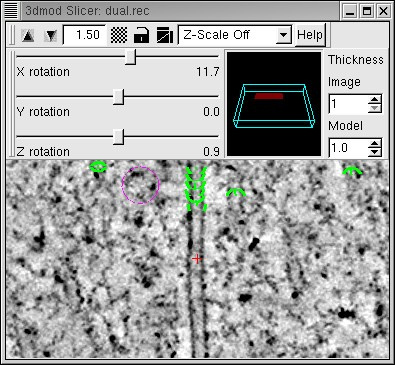
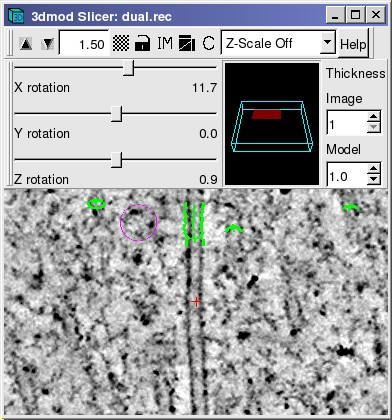
*** empty log message ***

diff --git a/html/3dmodguide.html b/html/3dmodguide.html
@@ -4,7 +4,7 @@
   <title>3dmod Introduction</title>
 </head>
 <body>
-<h2 align="center">Introduction to 3dmod, Version 3.7<br>
+<h2 align="center">Introduction to 3dmod, Version 3.9<br>
 </h2>
 <h3 align="center">Boulder Laboratory for 3-D Electron Microscopy of
 Cells</h3>
@@ -12,20 +12,21 @@ Cells</h3>
 <h3>Table of Contents</h3>
 <ul>
   <br>
-  <a href="#Model Organization">Model Organization</a> <br>
-  <a href="#Starting 3dmod"> Starting 3dmod</a> <br>
-  <a href="#Information Window">The Information Window</a> <br>
-  <a href="#Zap Window">The Zap Window</a> <br>
-  <a href="#Object Edit">The Object Edit Dialog</a> <br>
-  <a href="#Modeling in Zap">Modeling in the Zap Window</a> <br>
-  <a href="#Zap Toolbar">The Zap Toolbar</a> <br>
-  <a href="#Common Hot Keys">Most Frequently Used Hot Keys</a> <br>
-  <a href="#XYZ Window">The XYZ Window</a> <br>
-  <a href="#Slicer Window">The Slicer Window</a> <br>
-  <a href="#Setting Z-scale">Setting Z-scale and Pixel Size</a> <br>
-  <a href="#Viewing Model">Viewing the Model in 3D</a> <br>
-  <a href="#Skinning Model">Putting a skin on model data</a> <br>
-  <a href="#Advanced Topics">Advanced topics</a>
+  <a href="#Model%20Organization">Model Organization</a> <br>
+  <a href="#Starting%203dmod"> Starting 3dmod</a> <br>
+  <a href="#Information%20Window">The Information Window</a> <br>
+  <a href="#Zap%20Window">The Zap Window</a> <br>
+  <a href="#Object%20Edit">The Object Edit Dialog</a> <br>
+  <a href="#Modeling%20in%20Zap">Modeling in the Zap Window</a> <br>
+  <a href="#Zap%20Toolbar">The Zap Toolbar</a> <br>
+  <a href="#Common%20Hot%20Keys">Most Frequently Used Hot Keys</a> <br>
+  <a href="#XYZ%20Window">The XYZ Window</a> <br>
+  <a href="#Slicer%20Window">The Slicer Window</a> <br>
+  <a href="#Setting%20Z-scale">Setting Z-scale and Pixel Size</a> <br>
+  <a href="#Viewing%20Model">Viewing the Model in 3D</a> <br>
+  <a href="#Skinning%20Model">Putting a Skin on Model Data</a> <br>
+  <a href="#Making_Movies">Making Movies</a> <br>
+  <a href="#Advanced%20Topics">Advanced Topics</a>
 </ul>
 <hr>
 <a name="Model Organization"> <dd>
@@ -375,9 +376,12 @@ if this does not make it clear enough you can also
 make a separate symbol be displayed only on the central section. </li>
 </ul>
 <p>
-<a name="Object Edit">
+</p>
+<h3><a name="Object Edit">
 <h4>The Object Edit Dialog</h4>
-</a>The type of contours in an object, and the symbols displayed at
+</a></h3>
+<p><a name="Object Edit"></a>The type of contours in an object, and the
+symbols displayed at
 individual points, can be selected with the Object Edit dialog box.
 Here are two examples.
 <table align="center" border="0">
@@ -403,9 +407,11 @@ vesicles;
 here no symbol is
 selected but the sphere radius for points has been set to 14.
 </p>
-<p><a name="Modeling in Zap">
+<h3><a name="Modeling in Zap">
 <h4>Modeling in the Zap Window</h4>
-</a>Model points are added or changed using a 3-button mouse with the
+</a></h3>
+<p><a name="Modeling in Zap"></a>Model points are added or changed
+using a 3-button mouse with the
 program in Model mode.
 The table below gives an overview of the mouse controls in Movie and
 Model mode.
@@ -470,9 +476,10 @@ moving or deleting them. Use this button alone to move one or more
 points; hold down the Ctrl key to delete points under the cursor while
 clicking or holding down the right button.
 </p>
-<p><a name="Zap Toolbar">
+<h3><a name="Zap Toolbar">
 <h4>The Zap Toolbar</h4>
-</a></p>
+</a></h3>
+<p><a name="Zap Toolbar"></a></p>
 <center> <img src="3dmodimages/zaptoolbar.png" alt="Zap window toolbar">
 </center>
 <p>The toolbar for the Zap window has a number of useful controls.
@@ -482,7 +489,12 @@ clicking or holding down the right button.
 there is a text box which both displays the current zoom value and
 allows you
 to enter any arbitrary zoom.
-(Fractional zooms may be slower on some machines.) </li>
+(Fractional zooms may be slower on some machines.)</li>
+  <li>The numbers next to the zoom text box show the size of the
+window, or of the area enclosed by the rubberband, in pixels in the
+screen.&nbsp; This could be useful for taking a snapshot of an area of
+a particular size.<br>
+  </li>
   <li>The Checkerboard button will toggle between fast drawing and
 slower, high-resolution drawing with pixel smoothing when the zoom is
 greater than 1. </li>
@@ -551,7 +563,7 @@ particular windows, which are described in the help for those windows.
 The most commonly used hot keys
 are listed here:
 </p>
-<pre>PageUp     Show the next section (increase Z)<br>PageDown   Show the previous section (decrease Z)<br>Home       Show the last section<br>End        Show the first section<br>Delete     Delete current model point<br>-          Zoom down<br>=          Zoom up<br>s          Save the model<br>n          Start a new contour<br>Ctrl-S     Snapshot an image window to a Tiff file<br>t          Toggle model drawing off or on<br>,          Slow down movie or model rotation<br>.          Speed up movie or model rotation<br></pre>
+<pre>PageUp     Show the next section (increase Z)<br>PageDown   Show the previous section (decrease Z)<br>Home       Show the last section<br>End        Show the first section<br>Delete     Delete current model point<br>-          Zoom down<br>=          Zoom up<br>s          Save the model<br>n          Start a new contour<br>Ctrl-S     Snapshot an image window to a Tiff file<br>Shift-S, Ctrl-Shift-S   Shapshot to non-Tiff file (usually JPEG and PNG)<br>t          Toggle model drawing off or on<br>,          Slow down movie or model rotation<br>.          Speed up movie or model rotation<br></pre>
 <p>
 <a name="XYZ Window"> <dd>
   <h3>The XYZ Window</h3>
@@ -638,8 +650,13 @@ maintain a selected view in a Slicer Window while changing to other
 views in other windows (including other Slicers). Second, it allows
 you to model in the slicer without having the slice jump around.
 Third, it prevents the slow drawing in the slicer from slowing down
-the program when you want to work in or movie through other windows. </li>
-  <li>The help button describes hot keys and other features. </li>
+the program when you want to work in or movie through other windows.</li>
+  <li>The IM/FT button toggles between showing an image and a Fourier
+transform of the image.</li>
+  <li>The C button shows the slice in which the current contour will
+appear flat.<br>
+  </li>
+  <li>The Help button describes hot keys and other features. </li>
   <li>The box to the right of the sliders portrays the portion of the
 slice being viewed as a red plane inside of a representation of the
 whole image volume. </li>
@@ -662,15 +679,21 @@ movieing.<br>
 <p>It is possible to model in the Slicer, again with the same mouse
 button functions as in the Zap window. This provides a convenient way
 to track trajectories on 3D. If the lock button is not on,
-every mouse click will bring the selected point to the center.
-Sometimes
-this behavior is desirable, sometimes not. If not, just lock the
-slicer
-for modeling.
+every mouse click will bring the selected point to the center. Locking
+the slicer will prevent this behavior, which is often not desirable,
+and provides several other features when modeling.&nbsp; First, points
+can be drawn continuously by moving the mouse while holding the second
+mouse button down.&nbsp; Second, points drawn in one plane will lie
+exactly in a plane.&nbsp; Third, the PageUp and PageDown keys will move
+the center point by one pixel perpendicular to the plane being viewed
+instead of in the Z direction, which allows you to draw evenly spaced
+contours at oblique angles.&nbsp; See the Slicer <a
+ href="3dmodHelp/slicer.html">help page</a>
+for the more details. <br>
 </p>
 <p>The power of the Slicer comes at a cost - it is the first window
 that we have seen where the computation time can easily make the
-display unacceptably slow. Display time depends on three factors:
+display unacceptably slow. Display time depends on four factors:
 image thickness, high versus low resolution, and image size. If you
 need to average through many slices with a high resolution display, be
 sure to make the image as small as possible. If you must work with a
@@ -688,7 +711,7 @@ because these values are used for calculating length, surface area
 or volume from object, contour or mesh data.
 To adjust these fields in the model header
 select the Model Header menu item from the Edit menu in the
-3dmod <a href="#Information Window">Information Window</a>.
+3dmod <a href="#Information%20Window">Information Window</a>.
 </p>
 <p>The Z-Scale is the ratio of the thickness between successive images
 to the pixel size. Its two most common uses are to adjust for
@@ -756,7 +779,7 @@ two changes that can be made immediately, without having to compute
 surface meshes for the contours. The microtubule lines (green) have
 been made
 thicker and the scattered points are displayed as lighted surfaces.
-On the right is the display after making a meshes for the objects (as
+On the right is the display after making meshes for the objects (as
 explained below) and setting all objects to display as lighted
 surfaces. These display settings are all changed in the 3dmodv
 Objects dialog box, opened with the Edit-Objects menu item or the O hot
@@ -789,7 +812,7 @@ its name in the list.
 </p>
 <p>The example on the left shows how the appearance of the green lines
 was changed for the middle model view panel above. The "Lines" panel
-was selected, the line width was increased from 1 to 3, and
+was selected, the 3D line width was increased from 1 to 3, and
 "Anti-alias rendering" was turned on to smooth out the jagged edges of
 the lines.
 </p>
@@ -846,7 +869,7 @@ projection.&nbsp; The following images show an example of this display.<br>
 </table>
 </p>
 <p><a name="Skinning Model"> <dd>
-  <h3>Putting a skin on model data</h3>
+  <h3>Putting a Skin on Model Data</h3>
 </dd>
 </a>Skinning is the name used for calculating a three-dimensional
 surface from contour data. This surface, once calculated, is
@@ -855,9 +878,12 @@ a mesh of triangles that can be stored within each object.
 If any contour points within that object are edited then the mesh
 for that object must be recalculated in order for it to match
 the contour data.
-The <a href="man/imodmesh.html">imodmesh</a> program must be used
-to calculate the mesh from the contour data within a model
-since the skinning calculation can take many seconds for large objects.
+There are two ways to calculate the mesh from the contour data within a
+model: with the <a href="man/imodmesh.html">imodmesh</a> program, and
+with the Meshing panel of Objects dialog box.&nbsp; Using imodmesh
+allows many objects to be meshed at once and provides a wide range of
+options for controlling the meshing; whereas the Meshing panel provides
+a more intuitive interface with the most important options.<br>
 </p>
 <p>To skin the example model, this command was used:
 <br>
@@ -876,27 +902,17 @@ did this because of the
 "-t" option, which is followed by a list of open contour object numbers
 that should be given tubular meshes
 (here, just object 1). The "-d" option is then used to specify the
-diameter of the tubes, in pixels (10).
+diameter of the tubes, in pixels (10).<br>
 </p>
-<p>It is easy to lose your meshed model if you are modeling in 3dmod,
-save the model, run imodmesh, look at the meshed model with 3dmodv,
-then continue modeling in 3dmod and save the unmeshed model again.
-There are two ways to
-avoid this problem. You can exit from 3dmod before you run imodmesh, so
-that you will be working with the meshed model when you
-start 3dmod again. Or, after running imodmesh, be sure to read the
-meshed model back into 3dmod with the Open Model entry in the File
-menu.
-</p>
-<p>Sometimes the mesh data structure can get so large that interactive
+Sometimes the mesh data structure can get so large that interactive
 viewing is very slow. There are two ways to make a mesh with a lower
 resolution, the "-R" option to skip points within contours and
-the and "-i" option to skip Z levels. With "-R", imodmesh will skip
+the "-i" option to skip Z levels. With "-R", imodmesh will skip
 points that are within a certain distance of the line segments between
 the remaining points, thus preserving the shape of
 curves. For example,
 <br>
-<code>imodmesh -C -o 4 -R 0.75 -i 2 example.mod</code>
+<p><code>imodmesh -C -o 4 -R 0.75 -i 2 example.mod</code>
 <br>
 Here, a new mesh is created only for object 4 (-o 4), and
 points will
@@ -918,10 +934,122 @@ low-resolution mode then switched to high-resolution mode for studying
 details.
 Other commonly needed options are -s and -P to connect contours across
 gaps; see the <a href="man/imodmesh.html">imodmesh</a> man page for
-details.
+details.<br>
+</p>
+<p>All the options just mentioned are presented in the interface in the
+Meshing panel:<br>
+</p>
+<table style="margin-left: auto; margin-right: auto; text-align: left;"
+ border="1" cellpadding="2" cellspacing="2">
+  <tbody>
+    <tr>
+      <td style="vertical-align: top;"><img
+ alt="Meshing panel for vesicle object"
+ src="3dmodimages/objedvesmeshing.png"
+ style="width: 303px; height: 523px;"><br>
+      </td>
+      <td style="text-align: center; vertical-align: top;"><img
+ alt="Meshing panel for tube object"
+ src="3dmodimages/objedmtmeshing.png"
+ style="width: 303px; height: 523px;"><br>
+      </td>
+    </tr>
+  </tbody>
+</table>
+<p>Whenever an object is meshed, either with imodmesh or through this
+interface, the options used to mesh the object are stored in the model,
+and their values will be displayed when this panel is opened.&nbsp;
+This makes it easy to remesh objects without having to remember exactly
+what options were used previously.&nbsp; On the left, the "Tol" and "Z
+inc" settings reflects the values entered with the -R and -i options to
+imodmesh, and the "Cap" checkbox indicates that the -C option was used
+for the vesicle object.&nbsp; On the right, the "Tube" selection and
+the
+diameter are shown for the microtubule object.&nbsp; When the "Make
+Mesh" button is pressed, the meshing process is started in a separate
+thread so that you can continue working in 3dmod while the mesh is
+being computed.<br>
+</p>
+<p>If you do mesh with imodmesh while you are modeling in 3dmod,
+be sure to save the model, run imodmesh, then immediately load the
+model back into 3dmod with the Reload Model entry in the File
+menu.<br>
+</p>
+<h3><a name="Making_Movies"></a>Making Movies</h3>
+<p>Because IMOD does not produce files that can be used in movie
+players, if you want to make a movie of your images or models, you need
+to make a series
+of snapshots of a window and import those images into movie-making
+software.&nbsp; There are two dialogs that help manage this task:<br>
+</p>
+<table style="margin-left: auto; margin-right: auto; text-align: left;"
+ border="1" cellpadding="2" cellspacing="2">
+  <tbody>
+    <tr>
+      <td style="vertical-align: top;"><img
+ alt="Movie dialog for images" src="3dmodimages/imagemovies.png"
+ style="width: 225px; height: 553px;"><br>
+      </td>
+      <td style="vertical-align: top;"><img
+ alt="Movie dialog for models" src="3dmodimages/modelmovies.png"
+ style="width: 306px; height: 562px;"><br>
+      </td>
+    </tr>
+  </tbody>
+</table>
+<p>On the left is the dialog box used to control movieing and automatic
+snapshots in image display windows (primarily Zap and Slicer).&nbsp;
+The sliders at the top allow you select the range and increment between
+slices to be snapshot.&nbsp; Here, every slice from 6 to 56 will be
+snapshot.&nbsp; The<span style="font-weight: bold;"> Looping</span>
+radio buttons control how many pictures will be taken when you start a
+movie.&nbsp; With <span style="font-weight: bold;">Round trip</span>
+selected, pictures will be taken going in both directions, which is
+useful if your movie playing software will not loop back and
+forth.&nbsp; If your movie software will loop back and forth, you can
+select <span style="font-weight: bold;">One way</span> and get
+pictures going in just one direction.&nbsp; The <span
+ style="font-weight: bold;">Start at </span>radio buttons allow you to
+choose whether the set of pictures will start and end at the limits in
+Z (<span style="font-weight: bold;">Start/end</span>) or at the
+currently display section (<span style="font-weight: bold;">Current pt</span>).&nbsp;
+To get a series of pictures, select one of the file formats in the <span
+ style="font-weight: bold;">Snapshot</span> box and start a movie in a
+Zap or Slicer window with the middle or right mouse button.&nbsp; The
+window will stop movieing when the set of pictures is finished.<br>
+</p>
+<p>On the right is the corresponding dialog for movies from the model
+display window.&nbsp; In the most general case, you can adjust the
+model display to the desired starting position, orientation, and size,
+and press <span style="font-weight: bold;">Set Start</span>; then
+adjust the display to the desired final state and press <span
+ style="font-weight: bold;">Set End</span>.&nbsp; Often one simply
+wants the model to spin all the way around, which is provided by the
+buttons <span style="font-weight: bold;">Full 360 X</span> and <span
+ style="font-weight: bold;">Full 360 Y</span>.&nbsp; When you press <span
+ style="font-weight: bold;">Make,</span> you will see the model go
+through its sequence of positions.&nbsp; If it is doing the right
+thing, select a file format and check <span style="font-weight: bold;">Write
+files</span>, then press <span style="font-weight: bold;">Make</span>
+again.<br>
+</p>
+<p>The different image formats differ in their degree and type of
+compression.&nbsp; TIFF files are uncompressed and can be quite large,
+since they are 24-bit color.&nbsp; PNG files have a loss-less
+compression that is quite effective for most model snapshots but much
+less effective for image snapshots.&nbsp; JPEG files will give the most
+compression, with some loss of information that can be controlled by
+the percent quality factor, selectable in the 3dmod <span
+ style="font-weight: bold;">Preferences</span> dialog.&nbsp; For images
+with no model overlay, 80% quality is usually adequate for making
+movies.&nbsp; If there is a model overlay, you need 90% or higher
+quality to make it look decent in the individual snapshots (images here
+were shot at 90% quality).&nbsp; It might be preferable to take such
+snapshots as PNG's and let your movie software take care of the
+compression.<br>
 </p>
 <p><a name="Advanced Topics"> <dd>
-  <h3>Advanced topics</h3>
+  <h3>Advanced Topics</h3>
 </dd>
 </a>This section is to make you aware of some other features in 3dmod,
 so
@@ -1023,16 +1151,25 @@ in the boundary or the object. </li>
   <li><b>Pixel View window.</b> Use the Image-Pixel View menu entry to
 open a
 window
-that displays a grid of pixel intensity values. The actual values
-from the image file are shown. </li>
+that displays a grid of pixel intensity values as well as a continuous
+display of the mouse position in the image and the pixel value at that
+location. The actual values
+from the image file are shown in the grid; the continuous display can
+show either the byte values from within 3dmod or the values in the
+file. </li>
   <li><b>Graph Window.</b> Use the Image-Graph menu entry to open a
 window
 that can display a graph of pixel values along a line or along a
-contour. </li>
+contour; here is the <a href="3dmodHelp/graph.html">help page</a>.&nbsp;
+It is possible to define a line width so as to average over several
+pixels, and to see the average value over a subset of a line selected
+with the Zap window rubberband.<br>
+  </li>
   <li><b>Tumbler Window.</b> Use the Image-Tumbler menu entry to open a
 window
 that will show a projection through a small volume of data as the
-volume is tilted to different orientations. </li>
+volume is tilted to different orientations; here is the <a
+ href="3dmodHelp/tumbler.html">help page</a>. </li>
   <li><b>Making movies.</b> In addition to being able to snapshot a
 window
 with a hot key, you can open two dialog boxes that will help you
